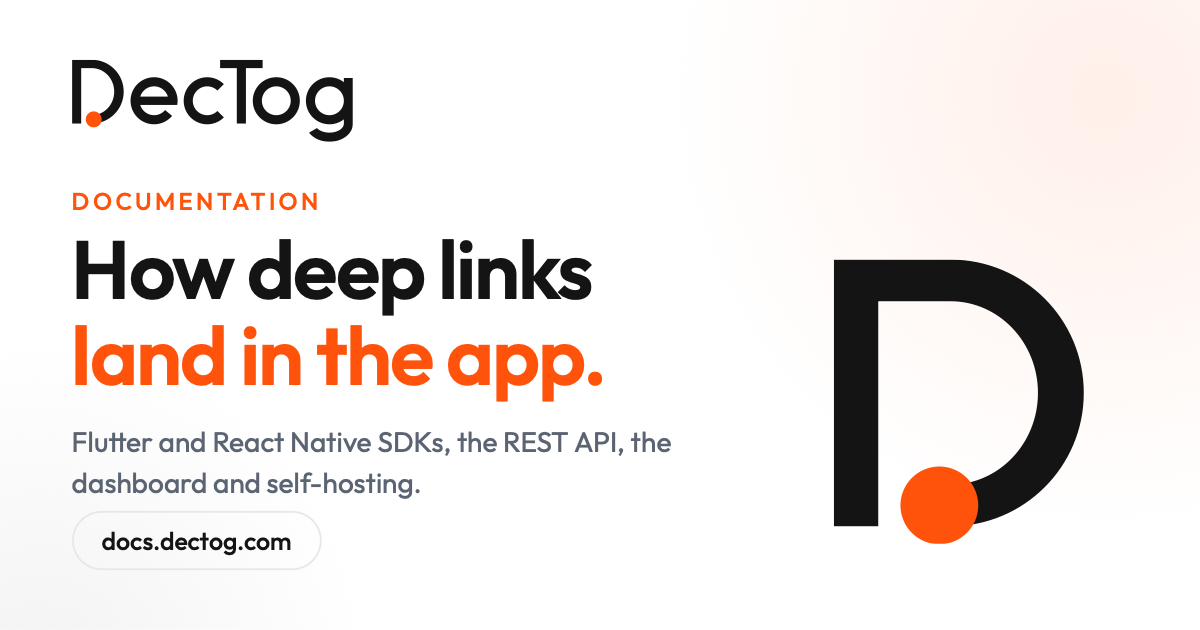
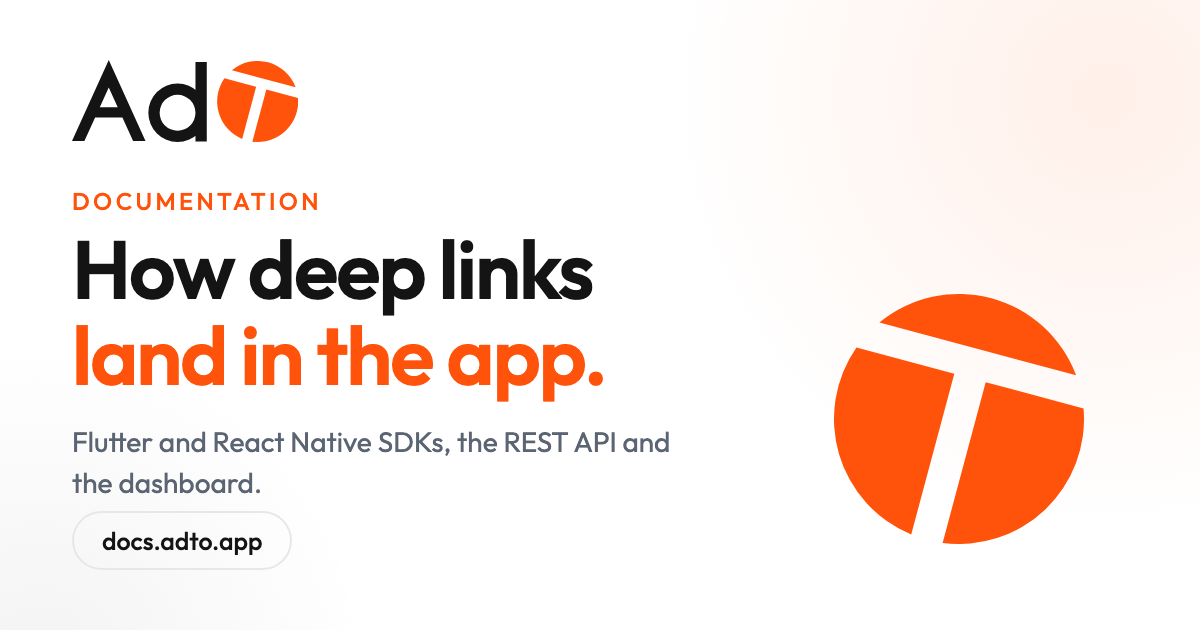
Brand the docs as AdTo and publish them on Render
- The T-cut logo in the header (Ad follows the theme, the symbol stays
  orange), the small-cut favicon, and the share card re-rendered with the
  AdTo logo and docs.adto.app.
- astro.config: the description and the llms.txt text say AdTo is hosted,
  with the released SDKs' default hosts named; no Self-hosting group or
  llms set; the old paths of the moved pages redirect, so links already
  published (the server's API descriptions, the site) keep working.
- render.yaml: the Render static site for docs.adto.app (npm ci && npm
  run build, publish dist/, the full git history for the "Last updated"
  dates, long caching for fingerprinted assets).
- README: hosted, on Render, with the AdTo banner; robots.txt names the
  docs.adto.app sitemap.

diff --git a/src/brand/og-card.html b/src/brand/og-card.html
@@ -35,17 +35,17 @@
     <div class="glow"></div>
     <div class="glow2"></div>
     <div class="wrap">
-      <svg class="brand" viewBox="0 28 740 216" role="img" aria-label="DecTog">
-        <path fill="#141414" d="M0 196 V28 H52 A84 84 0 0 1 52 196 H57 V174 H52 A59 62 0 0 0 52 50 H24 V196 Z M277.02 147 A62 62 0 1 0 263.49 175.85 L245.11 160.43 A38 38 0 1 1 252.37 147 Z M172 125 V147 H254.37 V125 Z M399.84 92.16 A62 62 0 1 0 399.84 179.84 L382.87 162.87 A38 38 0 1 1 382.87 109.13 Z M390 28 H502 V50 H390 Z M434 28 H458 V196 H434 Z M600 136 A62 62 0 1 1 476 136 A62 62 0 1 1 600 136 Z M576 136 A38 38 0 1 0 500 136 A38 38 0 1 0 576 136 Z M740 136 A62 62 0 1 1 616 136 A62 62 0 1 1 740 136 Z M716 136 A38 38 0 1 0 640 136 A38 38 0 1 0 716 136 Z M716 76 H740 V197 H716 Z M740 196 A62 48 0 0 1 624.31 220 L645.09 208 A38 24 0 0 0 716 196 Z"/>
-        <path fill="#FF520A" d="M78 185 A21 21 0 1 1 36 185 A21 21 0 1 1 78 185 Z"/>
+      <svg class="brand" viewBox="0 24 480 174" role="img" aria-label="AdTo">
+        <path fill="#141414" d="M0 196 L78 24 L156 196 L129.65 196 L106.97 146 L49.03 146 L26.35 196 Z M78 82.11 L59 124 L97 124 Z M286 136 A62 62 0 1 1 162 136 A62 62 0 1 1 286 136 Z M262 136 A38 38 0 1 0 186 136 A38 38 0 1 0 262 136 Z M262 28 H286 V197 H262 Z"/>
+        <path fill="#FF520A" d="M339.24 45.69 A86 86 0 0 1 474.58 81.95 Z M390.77 80.86 L323.45 62.82 A86 86 0 0 0 361.13 191.47 Z M412.37 86.65 L382.73 197.26 A86 86 0 0 0 479.69 104.69 Z"/>
       </svg>
       <p class="eyebrow">Documentation</p>
       <h1>How deep links<br /><span class="accent">land in the app.</span></h1>
-      <p class="sub">Flutter and React Native SDKs, the REST API, the dashboard and self-hosting.</p>
-      <div class="pill">docs.dectog.com</div>
+      <p class="sub">Flutter and React Native SDKs, the REST API and the dashboard.</p>
+      <div class="pill">docs.adto.app</div>
     </div>
-    <svg class="mark" viewBox="38 25 180 205" aria-hidden="true">
-      <g><path fill="#141414" d="M38 217 V25 H122 A96 96 0 0 1 122 217 H114 V187 H122 A63 66 0 0 0 122 55 H70 V217 Z"/><path fill="#FF520A" d="M142 202 A28 28 0 1 1 86 202 A28 28 0 1 1 142 202 Z"/></g>
+    <svg class="mark" viewBox="28 28 200 200" aria-hidden="true">
+      <path fill="#FF520A" d="M64.33 50.89 A100 100 0 0 1 221.7 93.06 Z M124.24 91.79 L45.96 70.82 A100 100 0 0 0 89.78 220.41 Z M149.36 98.52 L114.89 227.14 A100 100 0 0 0 227.64 119.5 Z"/>
     </svg>
   </body>
 </html>

diff --git a/src/styles/custom.css b/src/styles/custom.css
@@ -11,7 +11,7 @@
 	--dt-body: #ebebeb;
 	--dt-secondary: #aeaeae;
 	--dt-meta: #8f8f8f;
-	/* AdTo Orange, the logo's dot: dots and markers. The light tone is for small orange text. */
+	/* AdTo Orange, the colour of the logo's symbol: dots and markers. The light tone is for small orange text. */
 	--dt-accent: #ff520a;
 	--dt-accent-light: #ff7732;
 	--dt-link: #ff7732;

diff --git a/README.md b/README.md
@@ -1,5 +1,5 @@
 <p align="center">
-  <a href="https://adto.app"><img src=".github/dectog-readme.png" alt="AdTo: Documentation" width="800"></a>
+  <a href="https://adto.app"><img src=".github/adto-readme.png" alt="AdTo: Documentation" width="800"></a>
 </p>
 
 <div align="center">
@@ -11,24 +11,23 @@
 [![Site code: MIT](https://img.shields.io/badge/Site%20code-MIT-blue?style=flat-square)](LICENSE)
 [![Content: CC BY 4.0](https://img.shields.io/badge/Content-CC%20BY%204.0-lightgrey?style=flat-square)](LICENSE-CONTENT)
 [![Astro Starlight](https://img.shields.io/badge/Astro-Starlight-BC52EE?style=flat-square&logo=astro&logoColor=white)](https://starlight.astro.build)
-[![Cloudflare Workers](https://img.shields.io/badge/Cloudflare-Workers-f38020?style=flat-square&logo=cloudflare&logoColor=white)](https://developers.cloudflare.com/workers/)
+[![Render](https://img.shields.io/badge/Render-static%20site-141414?style=flat-square&logo=render&logoColor=white)](https://render.com/docs/static-sites)
 
 [Working on the docs](#working-on-the-docs) • [Adding a page](#adding-a-page) • [Look and layout](#look-and-layout) • [Conventions](#conventions) • [Deployment](#deployment)
 
 </div>
 
-This repository holds the canonical documentation for [AdTo](https://adto.app), the
-self-hosted deep linking and install attribution service: quickstart, link routing, the Flutter
-and React Native SDKs, the dashboard, the REST API and self-hosting. It is built with
-[Astro Starlight](https://starlight.astro.build) and served from a Cloudflare Worker as static
-assets.
+This repository holds the canonical documentation for [AdTo](https://adto.app), the hosted
+deep linking and install attribution service: quickstart, link routing, the Flutter and React
+Native SDKs, the dashboard and the REST API. It is built with
+[Astro Starlight](https://starlight.astro.build) and served as a static site on Render.
 
 Every page describes what the code does today. Where the product's own wording and the code
 disagree, the docs follow the code and say so.
 
 | Repository | Contents |
 |---|---|
-| [`ad-to/adto`](https://github.com/ad-to/adto) | The server: Cloudflare Worker, D1 database, Next.js dashboard and marketing site |
+| `ad-to/adto` | The server, dashboard and website (private) |
 | [`ad-to/flutter_adto`](https://github.com/ad-to/flutter_adto) | The Flutter SDK |
 | [`ad-to/react-native-adto`](https://github.com/ad-to/react-native-adto) | The React Native and Expo SDK |
 | `ad-to/docs` | This site |
@@ -59,7 +58,7 @@ npm run preview    # serves dist/ on http://localhost:4321 (production-like)
    ```
 
 3. The sidebar groups are fixed in `astro.config.mjs` (`start`, `links`, `sdk`, `react-native`,
-   `dashboard`, `api`, `self-hosting`, `guides`, `contributing`); pages inside a group are
+   `dashboard`, `api`, `guides`, `contributing`); pages inside a group are
    picked up automatically and ordered by `sidebar.order`.
 4. Link to other pages with absolute paths and a trailing slash: `/api/links/`. Broken internal
    links fail the build.
@@ -79,7 +78,7 @@ The site wears the adto.app identity on top of Starlight:
   menu footer and footer (registered under `components` in `astro.config.mjs`).
   `src/components/home/` holds the sections of the home page, used from
   `src/content/docs/index.mdx`.
-- Outfit, Inter and Fira Code are self-hosted through the `@fontsource-variable` packages.
+- Outfit, Inter and Fira Code are served with the site through the `@fontsource-variable` packages.
 
 ### Conventions
 
